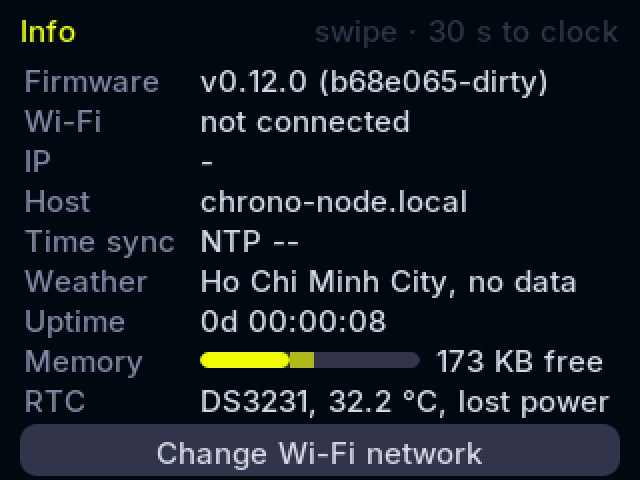
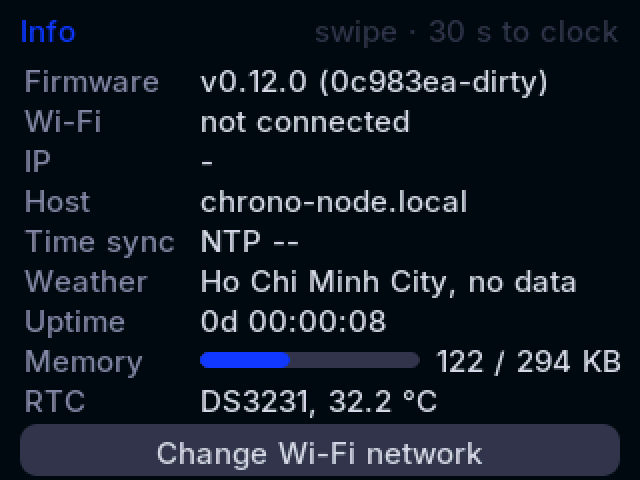
Info screen: plain used/total RAM bar (the peak segment looked broken)

diff --git a/src/display_manager.cpp b/src/display_manager.cpp
@@ -655,16 +655,14 @@ void DisplayManager::showInfoScreen(const InfoView& v) {
       s.drawString(v.rows[i][0], 12, kInfoRowH / 2);
       int16_t x = kInfoValueX;
       if (i == v.barRow && v.barTotal > 0) {
-        // Used now (accent), extra used at the peak (dimmed accent), free (faint).
+        // Used (accent) over the whole capacity (faint).
         const int16_t y = (kInfoRowH - kInfoBarH) / 2;
-        const int16_t used = (int64_t)kInfoBarW * v.barUsed / v.barTotal;
-        const int16_t peak = (int64_t)kInfoBarW * max(v.barPeak, v.barUsed) / v.barTotal;
+        const int16_t used = min<int64_t>(kInfoBarW, (int64_t)kInfoBarW * v.barUsed / v.barTotal);
         s.fillSmoothRoundRect(x, y, kInfoBarW, kInfoBarH, kInfoBarH / 2, C->faint, C->bg);
-        if (peak > used) {
-          s.fillRect(x + used, y, peak - used, kInfoBarH, theme::mix(pal_.top, C->faint, 90));
+        if (used > 0) {
+          s.fillSmoothRoundRect(x, y, max<int16_t>(used, kInfoBarH), kInfoBarH, kInfoBarH / 2,
+                                pal_.top, C->faint);
         }
-        if (used > 0) s.fillSmoothRoundRect(x, y, max<int16_t>(used, kInfoBarH), kInfoBarH,
-                                            kInfoBarH / 2, pal_.top, C->bg);
         x += kInfoBarW + 8;
       }
       s.setTextColor(C->text, C->bg);

diff --git a/src/main.cpp b/src/main.cpp
@@ -255,8 +255,7 @@ void buildInfoView(InfoView& v) {
   v.barRow = v.count;
   v.barTotal = ESP.getHeapSize();
   v.barUsed = v.barTotal - ESP.getFreeHeap();
-  v.barPeak = v.barTotal - ESP.getMinFreeHeap();
-  add("Memory", "%u KB free", ESP.getFreeHeap() / 1024);
+  add("Memory", "%u / %u KB", v.barUsed / 1024, v.barTotal / 1024);
   if (hasTemp) {
     add("RTC", "DS3231, %.1f \xC2\xB0" "C%s", tempC, rtcLostPower ? ", lost power" : "");
   } else {

diff --git a/src/display_manager.h b/src/display_manager.h
@@ -17,11 +17,10 @@
 struct InfoView {
   char rows[9][2][40];  // label, value
   int count = 0;
-  // Optional usage bar drawn in this row before its value text.
+  // Optional usage bar (used of total) drawn in this row before its value text.
   int barRow = -1;
   uint32_t barTotal = 0;
-  uint32_t barUsed = 0;  // in use now
-  uint32_t barPeak = 0;  // most ever in use (>= barUsed)
+  uint32_t barUsed = 0;
 };
 
 struct SettingsView {

diff --git a/README.md b/README.md
@@ -61,8 +61,7 @@ forecast, info and settings screens, plus a settings page in the browser at
   - weather location, chosen from the last 5 used locations (`<` / `>`). New locations are
     added with `WEATHER CITY`/`WEATHER LOC`, and later from the web UI (M9).
 - **Info** shows firmware, Wi-Fi and signal, IP, host name, NTP sync, weather age, uptime,
-  RAM and the RTC. It refreshes every 2 s. RAM is a bar: used now, the extra used at the
-  peak since boot (dimmed), and free. **Change Wi-Fi network** at the bottom forgets the
+  RAM and the RTC. It refreshes every 2 s. RAM is a bar with used / total. **Change Wi-Fi network** at the bottom forgets the
   saved network after a confirmation (see Wi-Fi setup).
 - **At night**, any touch raises the backlight to the day level for 10 s.
 - **12-hour mode** shows AM/PM before the minute bar. Hours 1–9 drop the leading digit and
